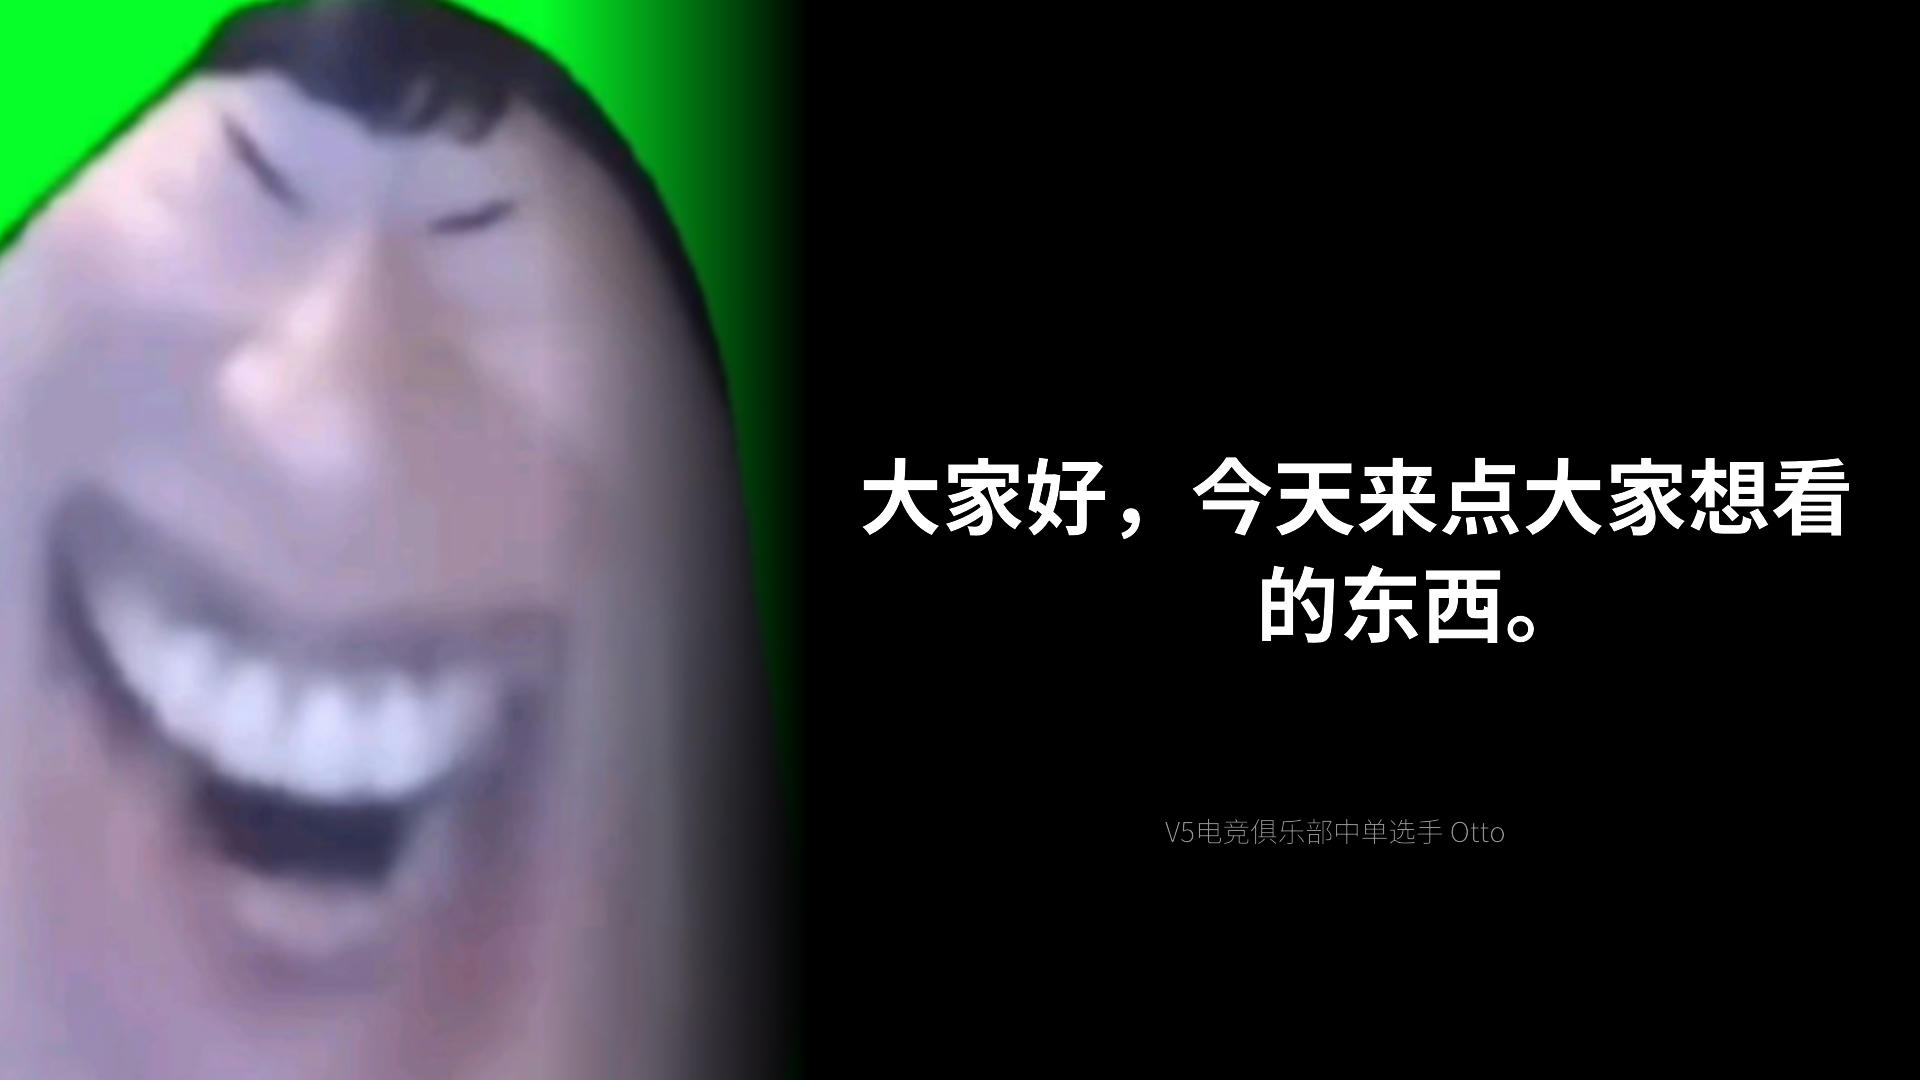
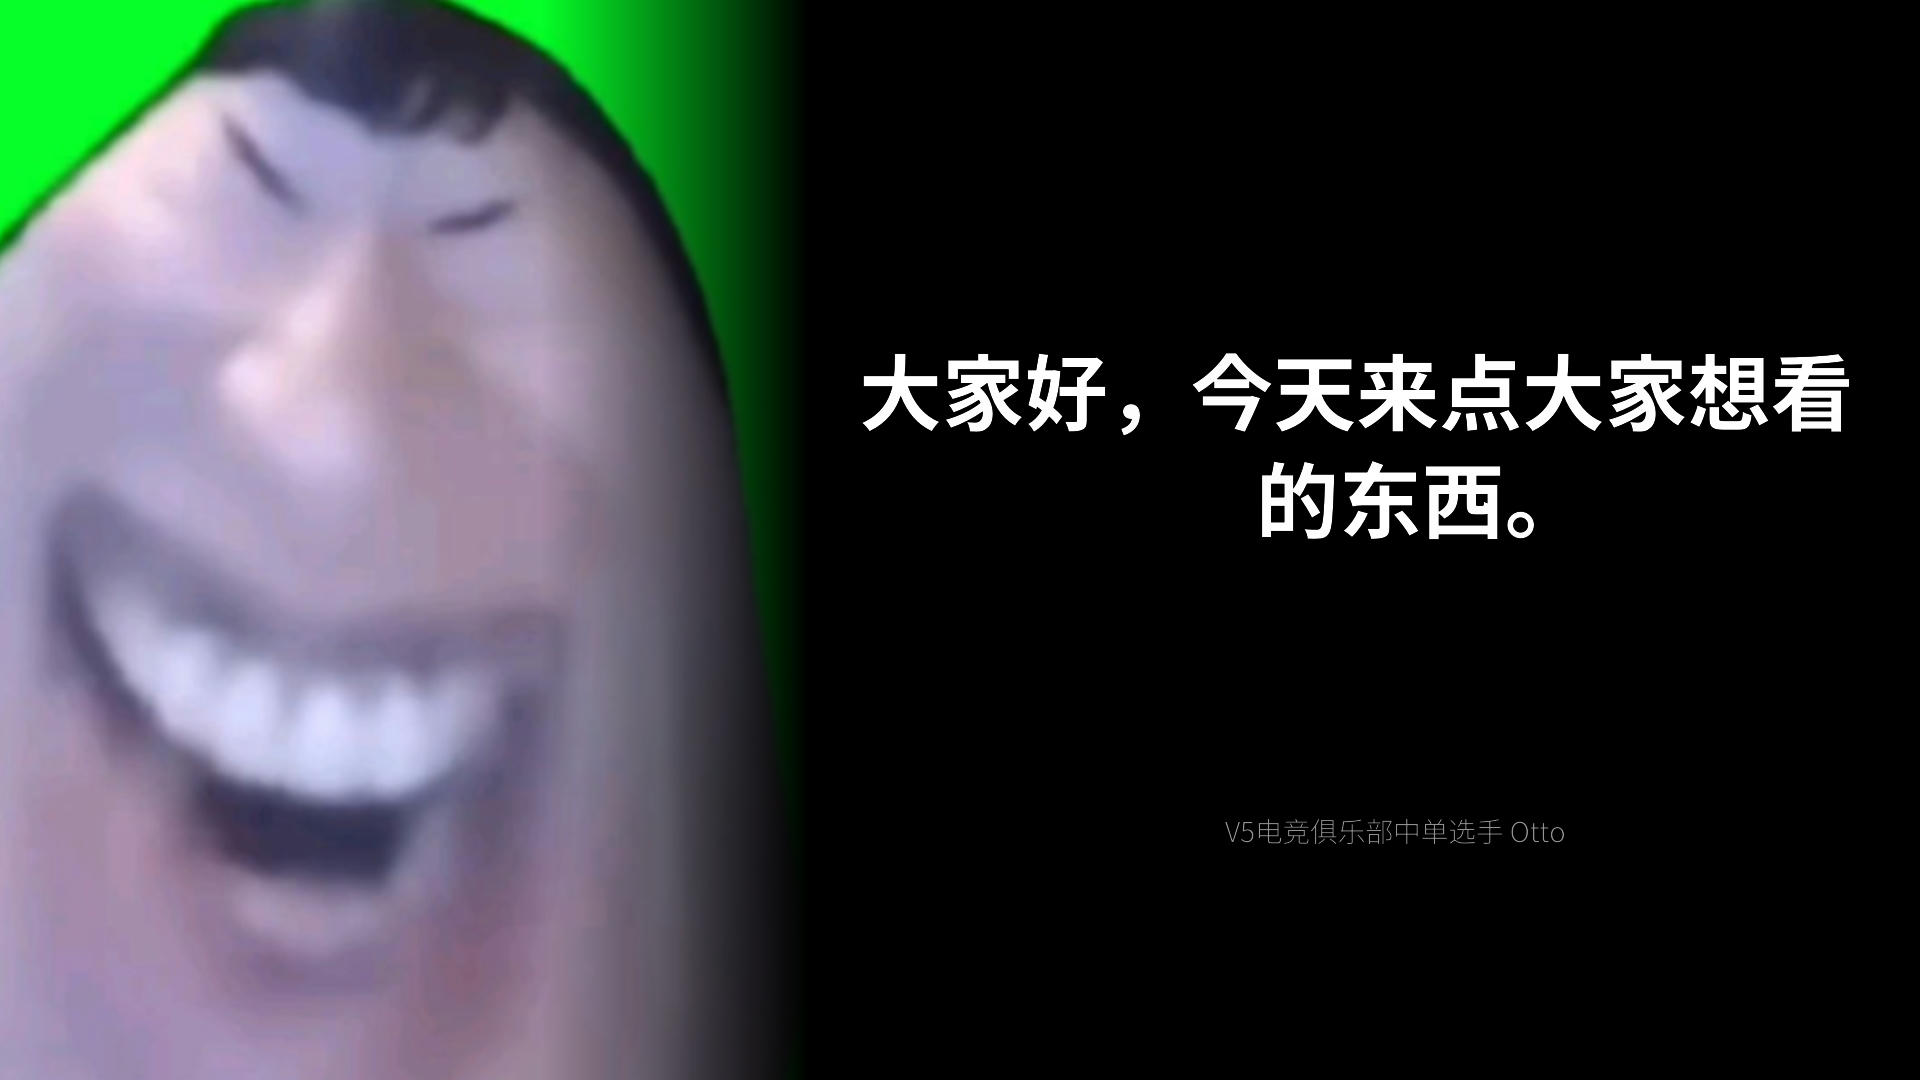
Fix line height data when there is only one line

diff --git a/src/components/mod.rs b/src/components/mod.rs
@@ -116,12 +116,13 @@ impl Lines {
         let mut buffer = String::new();
         let (mut max_w, mut max_h) = (0, 0);
         // TODO: This is inefficient, guess and step with multiple characters
-        let mut last = (0, 0);
+        let (mut last_w, mut last_h) = (0, 0);
         for char in info.text.chars() {
             buffer.push(char);
 
             let (w, h) = imageproc::drawing::text_size(info.scale, info.font, &buffer);
-            last = (w, h);
+            last_w = w;
+            last_h = h;
             if w >= limit {
                 // if adding a new character will exceed the limit, used the character before
                 let c = buffer.chars().count();
@@ -135,7 +136,9 @@ impl Lines {
                 max_h += h;
             }
         }
-        lines.push((buffer, last.0, last.1));
+        lines.push((buffer, last_w, last_h));
+        max_w = std::cmp::max(max_w, last_w);
+        max_h += last_h;
 
         Self {
             data: lines,
@@ -183,7 +186,7 @@ impl<'a> From<Quotes<'a>> for RgbaImage {
         let user_info = &quotes.user_info;
         let (w, _) = imageproc::drawing::text_size(user_info.scale, user_info.font, user_info.text);
         let (x, y) = (
-            (canvas.width() / 2 - quotes.gap - (w as u32 / 2)) as i32,
+            centered_text_x(canvas.width(), w, quotes.gap),
             (bg_height - (bg_height / 4)) as i32,
         );
 
